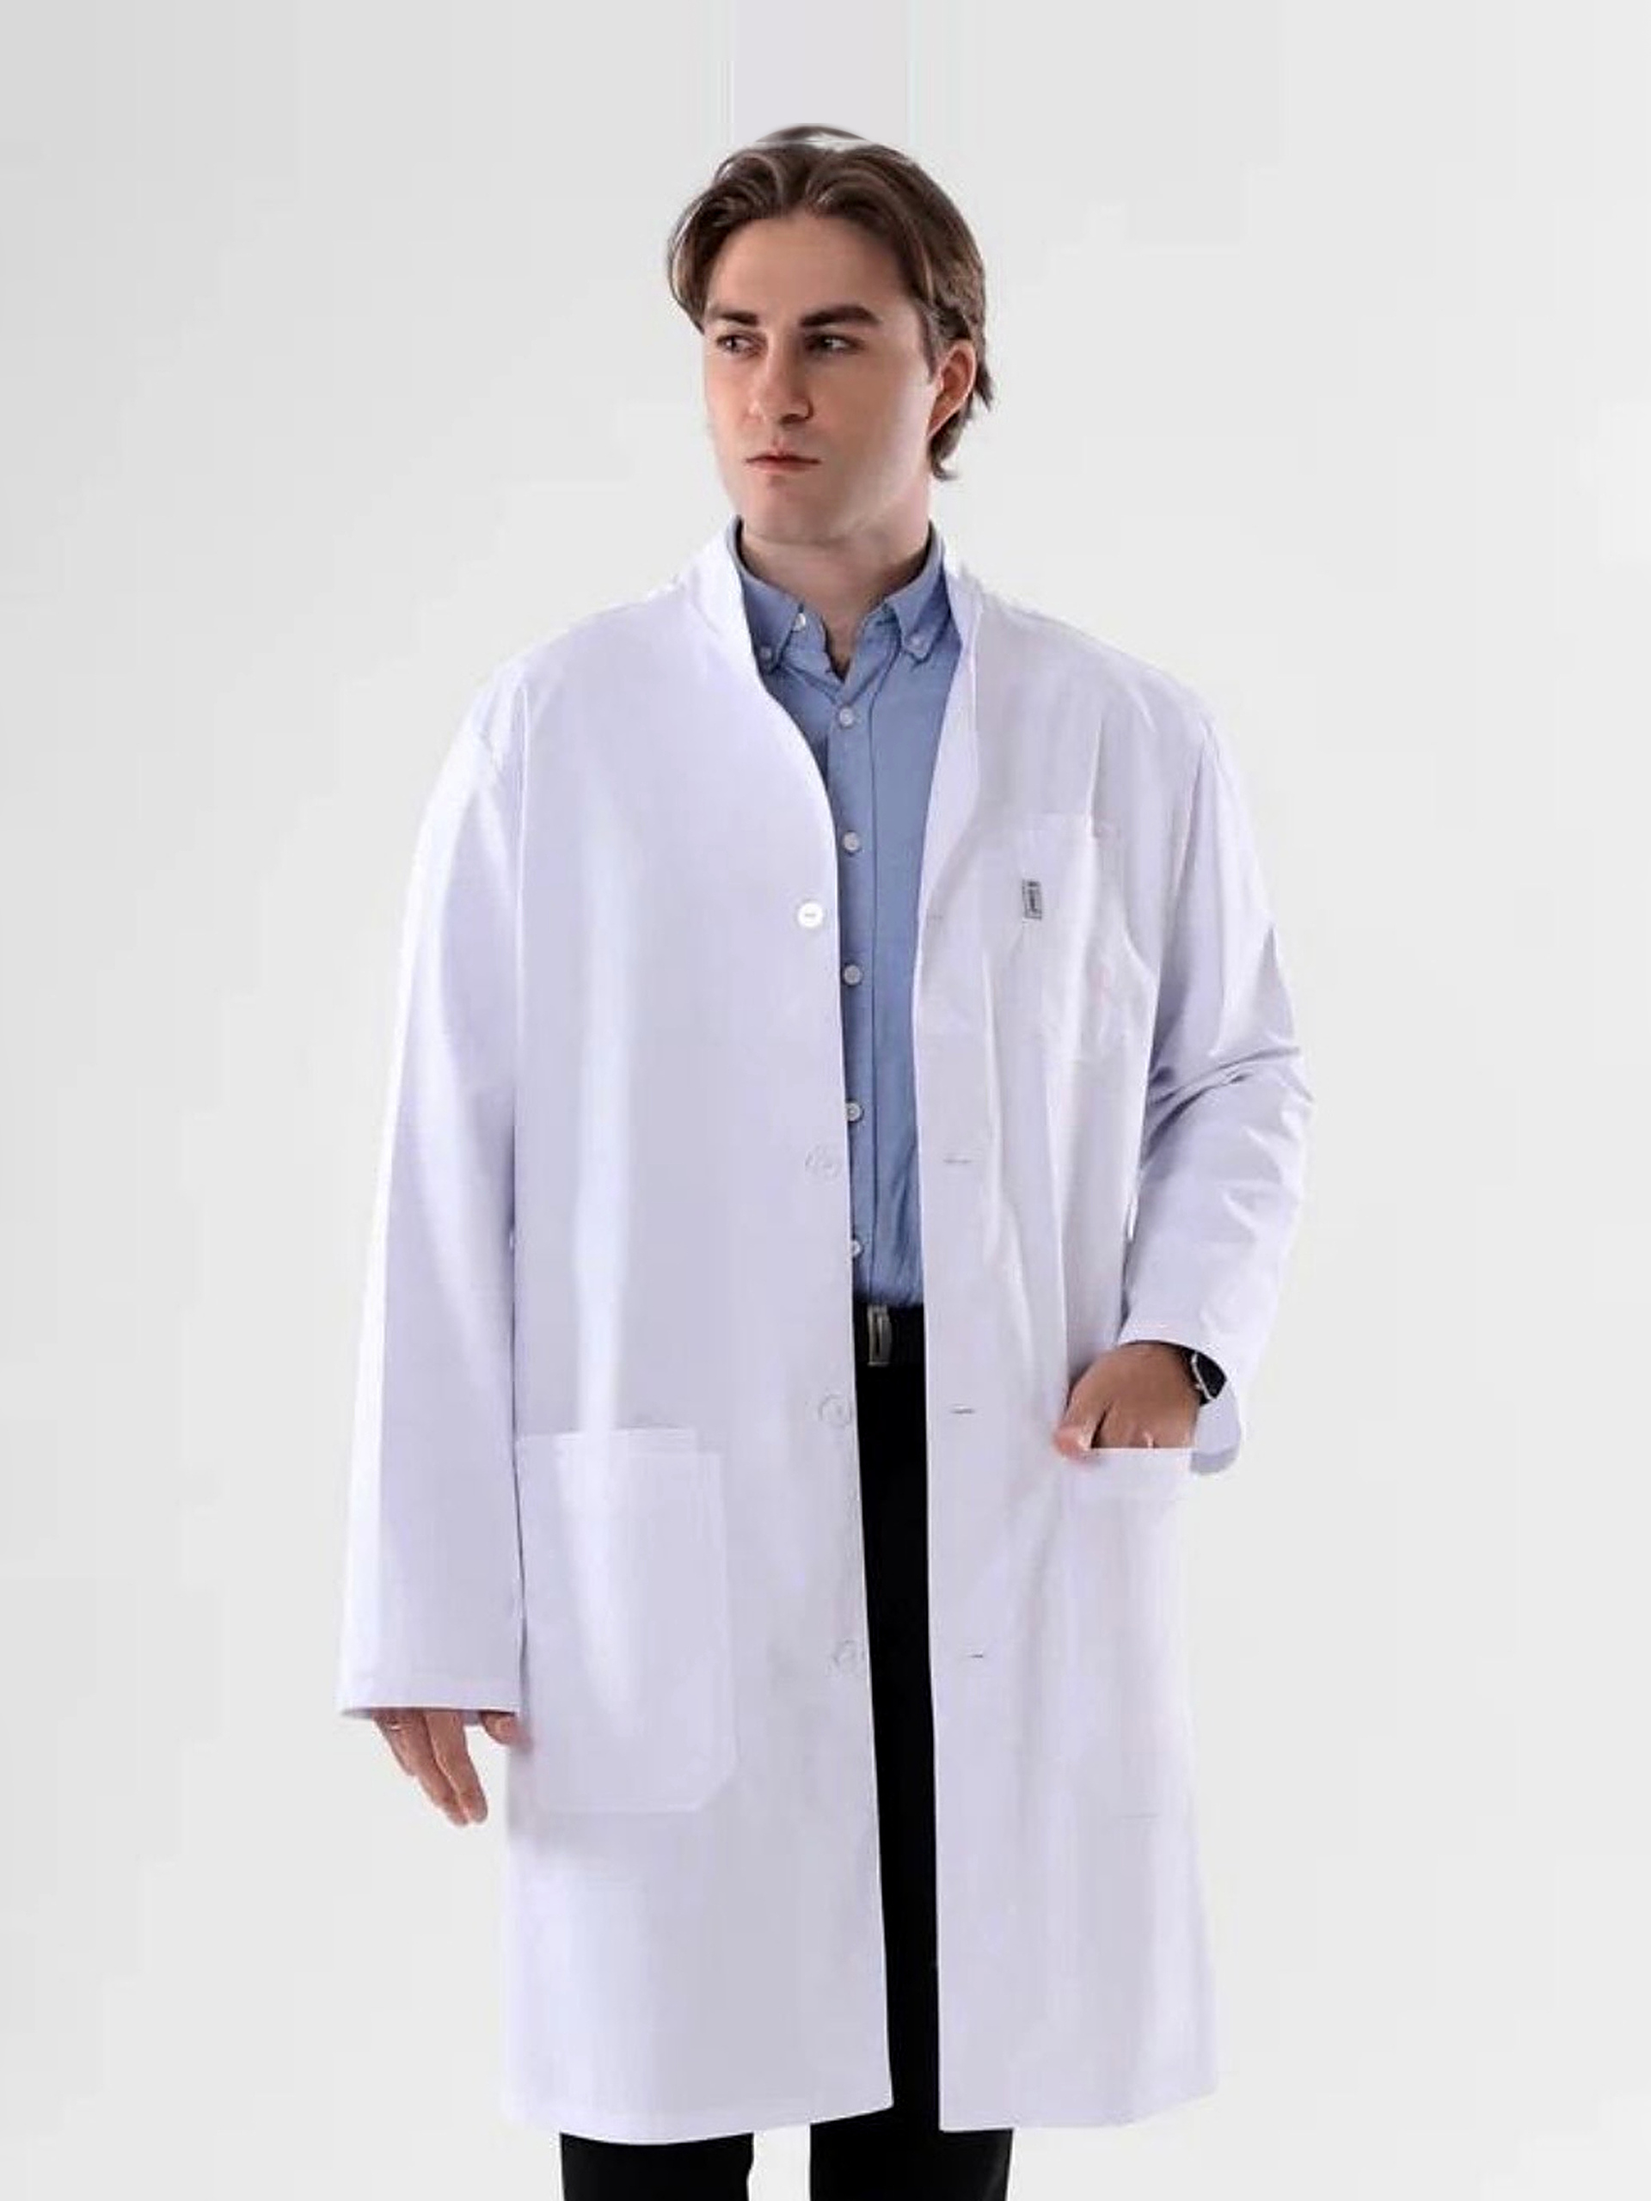
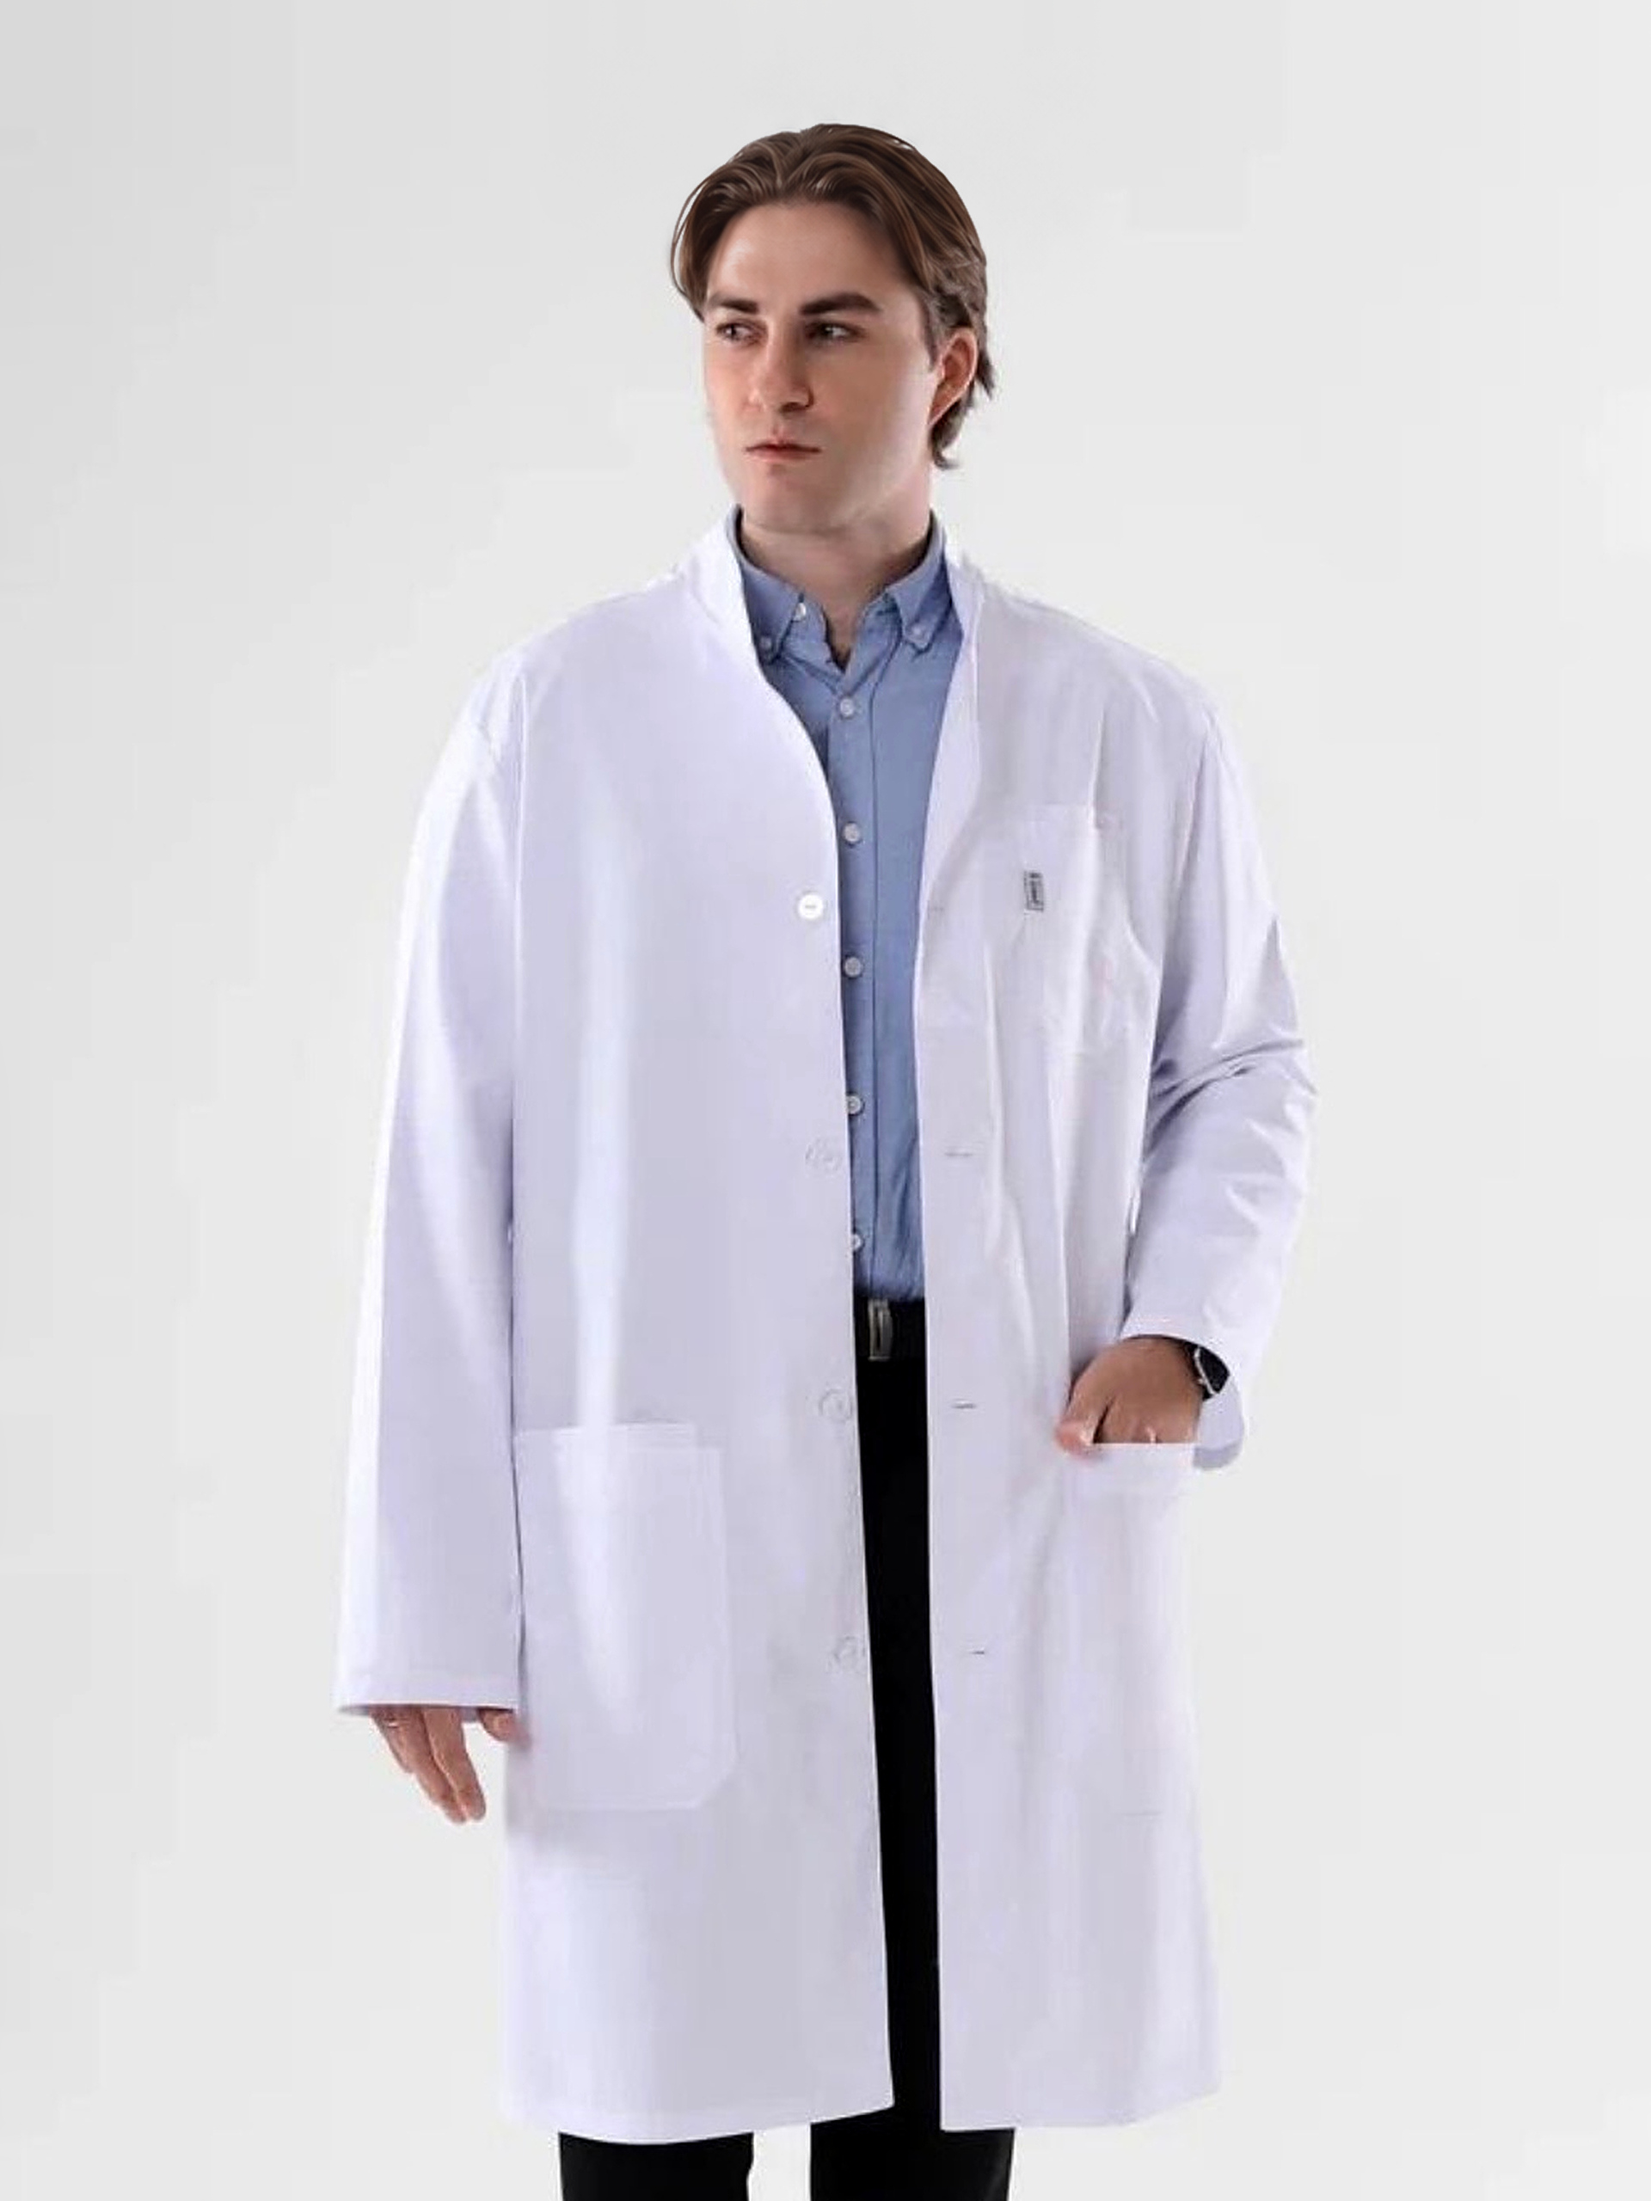
Rebuild crown hair from the reference photo, then re-apply headroom
The two source photos had a generative artifact on the crown: a glossy,
plastic-looking dome with no strand detail. Replace the upper hair mass
with the same man's hair from the reference shot: face landmarks give a
least-squares affine alignment (residual 1.4-2.2 px on a 158 px
inter-ocular distance), the reference hair is matted against its own
background, tone-matched to the target hair and composited under a
feathered crown mask, with the studio background reconstructed where the
old silhouette was wider.

Headroom extension then re-runs on the repaired images: both land at
5.59% of frame height, matching the reference, at 1920x2560 (3:4).
Lossless PNG versions alongside the JPEGs.

Claude-Session: https://claude.ai/code/session_0155kpDZcuM78ag7JtsuJRFq

diff --git a/scripts/fix_hair_from_reference.py b/scripts/fix_hair_from_reference.py
@@ -1,0 +1,122 @@
+import numpy as np
+from PIL import Image
+from gauss import gauss1d
+
+REF = '/root/.claude/uploads/92ed6dba-dbfa-5416-bab6-95a063ee99a3/3ba9081d-image.png'
+TGT = {'i2':'/root/.claude/uploads/92ed6dba-dbfa-5416-bab6-95a063ee99a3/4dc6ba23-image.jpg',
+       'i3':'/root/.claude/uploads/92ed6dba-dbfa-5416-bab6-95a063ee99a3/977293ce-image.jpg'}
+
+# mediapipe indices used for alignment: upper face oval, brows, eyes, nose bridge
+ALIGN = [10,338,297,332,284,251,389,356,454,323,          # right side / top
+         109,67,103,54,21,162,127,234,93,                  # left side / top
+         70,63,105,66,107,336,296,334,293,300,             # brows
+         33,133,362,263,168,6,197,195,                     # eyes + nose bridge
+         143,111,117,118,119,372,340,346,347,348]          # upper cheeks
+
+def blur2d(a, sigma):
+    out = np.empty_like(a)
+    for i in range(a.shape[0]):
+        out[i] = gauss1d(a[i], sigma)
+    out2 = np.empty_like(out)
+    for j in range(a.shape[1]):
+        out2[:, j] = gauss1d(out[:, j], sigma)
+    return out2
+
+def fit_affine(src, dst):
+    """least-squares affine mapping src -> dst"""
+    n = len(src)
+    A = np.zeros((2*n, 6)); b = np.zeros(2*n)
+    A[0::2, 0] = src[:,0]; A[0::2, 1] = src[:,1]; A[0::2, 2] = 1; b[0::2] = dst[:,0]
+    A[1::2, 3] = src[:,0]; A[1::2, 4] = src[:,1]; A[1::2, 5] = 1; b[1::2] = dst[:,1]
+    p, *_ = np.linalg.lstsq(A, b, rcond=None)
+    M = np.array([[p[0],p[1],p[2]],[p[3],p[4],p[5]],[0,0,1]])
+    res = (np.c_[src, np.ones(n)] @ M.T)[:, :2] - dst
+    return M, np.linalg.norm(res, axis=1)
+
+def bg_model(a, head_lo, head_hi):
+    """smooth background estimate: interpolate horizontally across the head band"""
+    g = a.copy()
+    H, W, C = a.shape
+    est = np.zeros_like(a)
+    lo = max(0, head_lo - 40); hi = min(W, head_hi + 40)
+    for ch in range(C):
+        v = g[:, :, ch]
+        left = np.median(v[:, max(0,lo-120):lo], axis=1)
+        right = np.median(v[:, hi:hi+120], axis=1)
+        left = gauss1d(left, 25); right = gauss1d(right, 25)
+        t = np.linspace(0, 1, hi-lo)[None, :]
+        band = left[:, None]*(1-t) + right[:, None]*t
+        e = v.copy(); e[:, lo:hi] = band
+        est[:, :, ch] = e
+    return est
+
+def matte(a, bg, k=28.0):
+    """soft alpha: how much darker than the local background"""
+    d = (bg.mean(axis=2) - a.mean(axis=2)) / k
+    return np.clip(d, 0, 1)
+
+def warp(arr, Minv, size):
+    """arr: HxWxC float or HxW float; map target->ref with Minv"""
+    c = (Minv[0,0], Minv[0,1], Minv[0,2], Minv[1,0], Minv[1,1], Minv[1,2])
+    if arr.ndim == 2:
+        im = Image.fromarray(arr.astype(np.float32), 'F')
+        return np.asarray(im.transform(size, Image.AFFINE, c, Image.BICUBIC)).astype(np.float64)
+    out = []
+    for ch in range(arr.shape[2]):
+        im = Image.fromarray(arr[:,:,ch].astype(np.float32), 'F')
+        out.append(np.asarray(im.transform(size, Image.AFFINE, c, Image.BICUBIC)).astype(np.float64))
+    return np.stack(out, axis=2)
+
+def process(key, out_path, dbg=True):
+    ref = np.asarray(Image.open(REF).convert('RGB')).astype(np.float64)
+    tgt = np.asarray(Image.open(TGT[key]).convert('RGB')).astype(np.float64)
+    lr = np.load('lm_ref.npy'); lt = np.load(f'lm_{key}.npy')
+    M, res = fit_affine(lr[ALIGN], lt[ALIGN])
+    iod = np.linalg.norm(lt[33]-lt[263])
+    print(f'{key}: affine residual mean={res.mean():.2f}px max={res.max():.2f}px (IOD {iod:.0f})')
+
+    Hr, Wr, _ = ref.shape; Ht, Wt, _ = tgt.shape
+    # backgrounds + mattes
+    ref_head = (int(lr[:,0].min()-1.2*np.linalg.norm(lr[33]-lr[263])), int(lr[:,0].max()+1.2*np.linalg.norm(lr[33]-lr[263])))
+    tgt_head = (int(lt[:,0].min()-1.2*iod), int(lt[:,0].max()+1.2*iod))
+    bgr = bg_model(ref, *ref_head); bgt = bg_model(tgt, *tgt_head)
+    ar = matte(ref, bgr); at = matte(tgt, bgt)
+
+    Minv = np.linalg.inv(M)
+    wref = warp(ref, Minv, (Wt, Ht))
+    wa   = np.clip(warp(ar, Minv, (Wt, Ht)), 0, 1)
+
+    # crown region mask in target coords
+    yh = lt[10,1]                      # forehead top (hairline centre)
+    y1 = yh - 0.10*iod                 # fully replaced above this
+    y2 = yh + 0.75*iod                 # fully original below this
+    ys = np.arange(Ht)[:, None]
+    m = np.clip((y2 - ys) / (y2 - y1), 0, 1) * np.ones((1, Wt))
+    xl = lt[:,0].min() - 1.4*iod; xr = lt[:,0].max() + 1.4*iod
+    xs = np.arange(Wt)[None, :]
+    m *= np.clip((xs - xl)/(0.35*iod), 0, 1) * np.clip((xr - xs)/(0.35*iod), 0, 1)
+    m = blur2d(m, 12)
+
+    # colour match warped ref hair to target hair in the overlap
+    sel = (wa > 0.85) & (at > 0.85) & (m > 0.4)
+    print('   overlap px', int(sel.sum()))
+    wref_c = wref.copy()
+    for ch in range(3):
+        s = wref[:,:,ch][sel]; t = tgt[:,:,ch][sel]
+        sd = s.std() if s.std() > 1e-6 else 1.0
+        wref_c[:,:,ch] = (wref[:,:,ch] - s.mean()) * (t.std()/sd) + t.mean()
+
+    content = wref_c * wa[:,:,None] + bgt * (1 - wa[:,:,None])
+    out = tgt * (1 - m[:,:,None]) + content * m[:,:,None]
+    out = np.clip(np.rint(out), 0, 255).astype(np.uint8)
+    Image.fromarray(out).save(out_path, quality=97, subsampling=0)
+    if dbg:
+        x0 = int(lt[:,0].min()-1.0*iod); x1 = int(lt[:,0].max()+1.0*iod)
+        y0 = 0; y1c = int(lt[152,1])
+        Image.fromarray(out).crop((x0,y0,x1,y1c)).save(f'dbg_{key}_new.png')
+        Image.fromarray(tgt.astype(np.uint8)).crop((x0,y0,x1,y1c)).save(f'dbg_{key}_old.png')
+    return out
+
+if __name__ == '__main__':
+    process('i2', 'hairfix_i2.jpg')
+    process('i3', 'hairfix_i3.jpg')

diff --git a/scripts/extend_headroom.py b/scripts/extend_headroom.py
@@ -123,5 +123,7 @@ def process(src, dst):
     print(f"{dst}: added top={T}px left={left} right={right} noise={sigma:.2f} "
           f"canvas={B.shape[1]}x{B.shape[0]} -> {OUT_W}x{OUT_H} | headroom {top/H:.4f} -> {nt/OUT_H:.4f} (ref {REF_FRAC:.4f})")
 
-process('/root/.claude/uploads/92ed6dba-dbfa-5416-bab6-95a063ee99a3/4dc6ba23-image.jpg', '/home/user/Test/out/photo_2_headroom.jpg')
-process('/root/.claude/uploads/92ed6dba-dbfa-5416-bab6-95a063ee99a3/977293ce-image.jpg', '/home/user/Test/out/photo_3_headroom.jpg')
+
+if __name__ == '__main__':
+    import sys
+    process(sys.argv[1], sys.argv[2])
